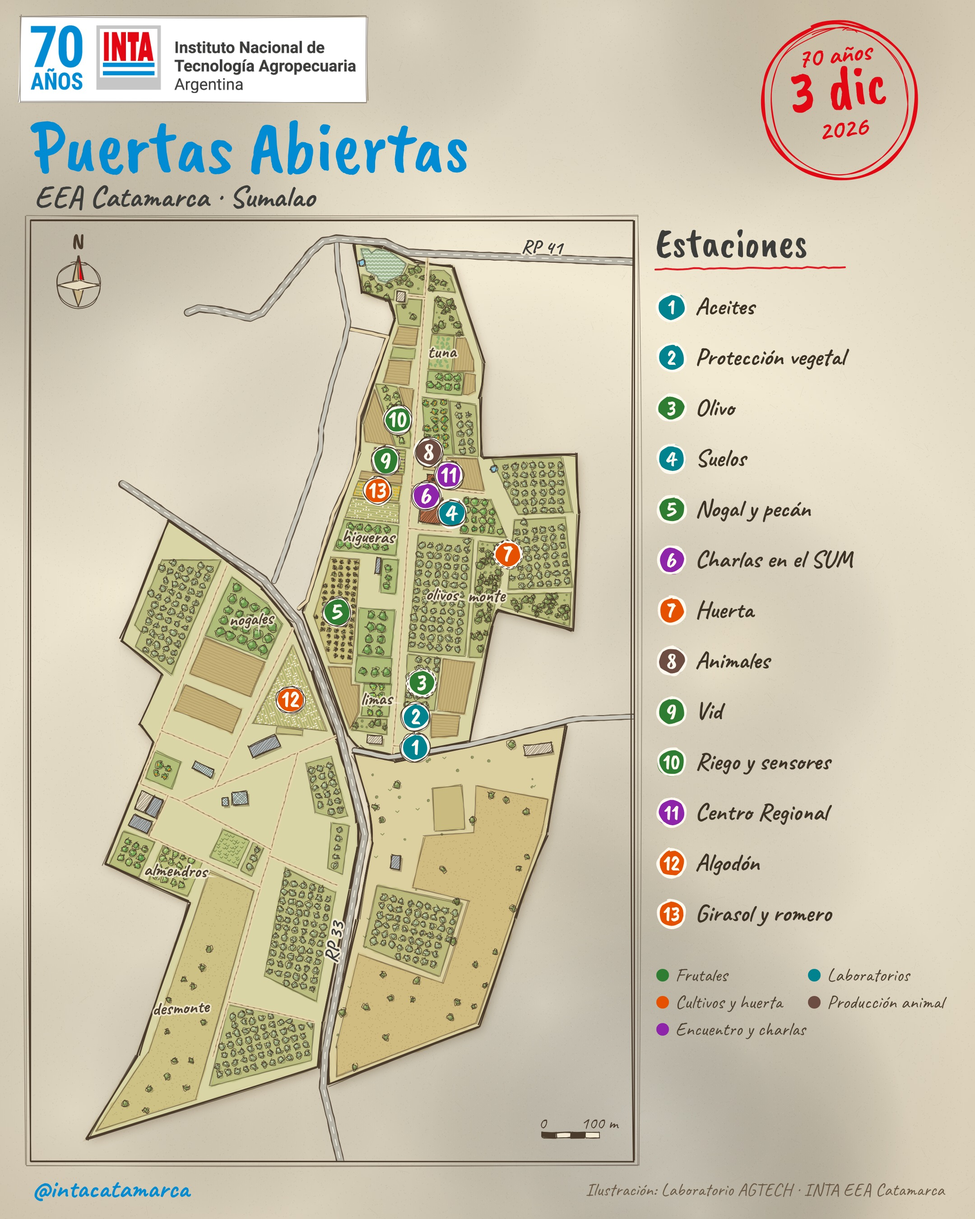
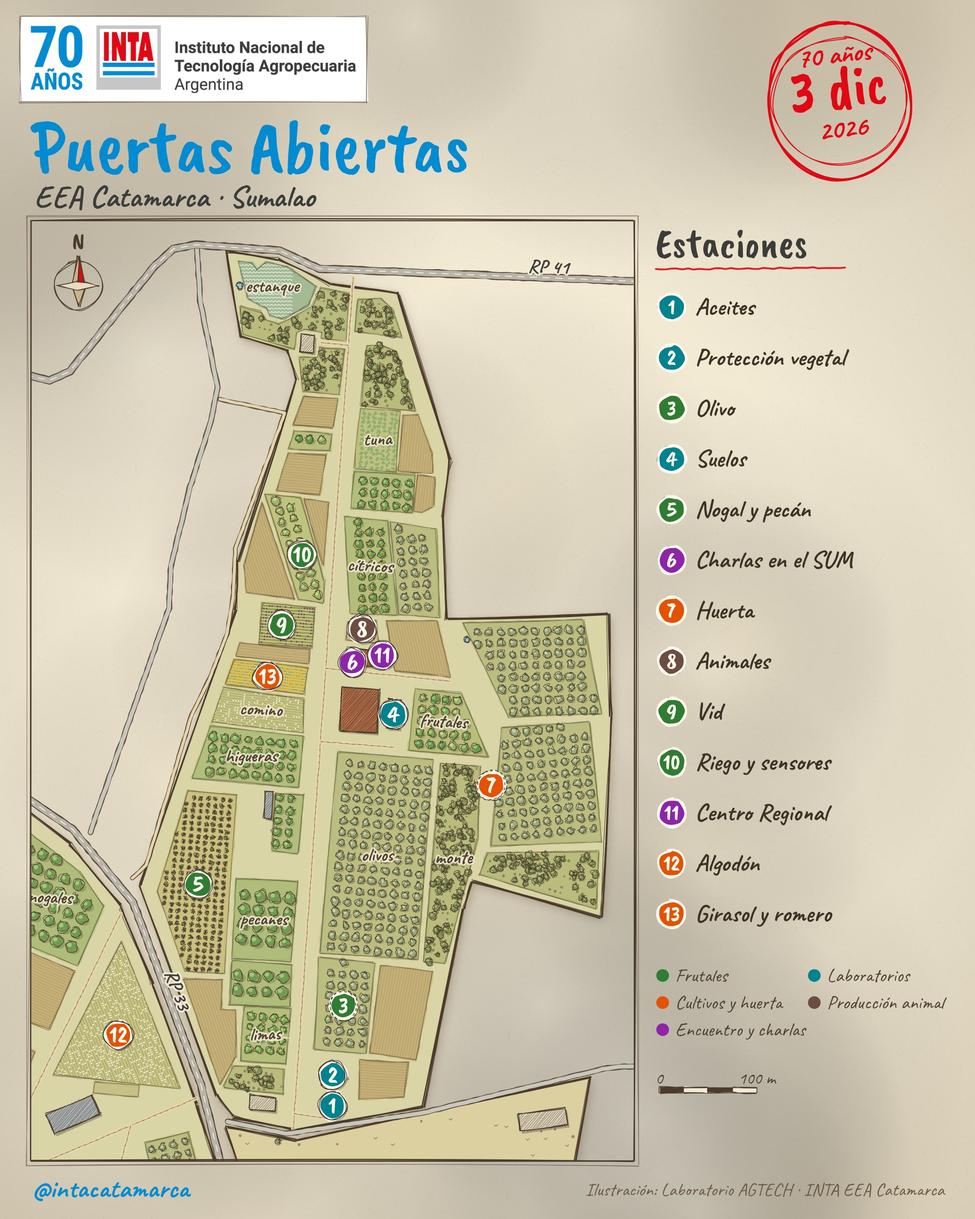
feat(mapa): lámina centrada en el sector 1 y la estación de algodón
Claude-Session: https://claude.ai/code/session_01Mgct47dxFApSdUnrjdfpuV

diff --git a/lamina/lamina.js b/lamina/lamina.js
@@ -41,7 +41,11 @@
 
   // ---------- Proyección ----------
   const sectores = GEO.filter((f) => f.properties.tipo === "predio");
-  const todos = sectores.flatMap((f) => f.geometry.coordinates[0]);
+  // Encuadre: el Sector 1 (donde se concentra la jornada) más el lote de algodón (estación 12) y todas las estaciones.
+  // Lo que queda fuera de ese recuadro se corta con el marco.
+  const foco = [...sectores.filter((f) => f.properties.nombre === "Sector 1"), ...GEO.filter((f) => f.properties.cultivo === "algodon"),
+    ...GEO.filter((f) => f.properties.tipo === "estacion")];
+  const todos = foco.flatMap((f) => f.geometry.type === "Point" ? [f.geometry.coordinates] : f.geometry.coordinates[0]);
   const lat0 = todos.reduce((t, p) => t + p[1], 0) / todos.length, k = 111320 * Math.cos(lat0 * Math.PI / 180), M = 110540;
   const lngs = todos.map((p) => p[0]), lats = todos.map((p) => p[1]);
   const xm = (lng) => (lng - Math.min(...lngs)) * k, ym = (lat) => (Math.max(...lats) - lat) * M;
@@ -49,9 +53,11 @@
   // caja del mapa: columna izquierda; a la derecha va la leyenda
   const caja = { x: 34, y: F.cab + 8, w: W - F.leyenda - 34 - 18, h: H - F.cab - F.pie - 16 };
   const esc = Math.min(caja.w / (anchoM * 1.08), caja.h / (altoM * 1.05)); // px por metro
-  { const h = Math.min(caja.h, altoM * esc * 1.07); caja.y += (caja.h - h) / 2; caja.h = h; } // el marco abraza al mapa
+  const libreAbajo = caja.h - Math.min(caja.h, altoM * esc * 1.07);
+  { const h = caja.h - libreAbajo; if (F.H < 1500) caja.y += libreAbajo / 2; caja.h = h; } // el marco abraza al mapa (en la historia, arriba)
   const ox = caja.x + (caja.w - anchoM * esc) / 2, oy = caja.y + (caja.h - altoM * esc) / 2;
   const P = ([lng, lat]) => [ox + xm(lng) * esc, oy + ym(lat) * esc];
+  const T = Math.max(1, Math.sqrt(esc / .67)); // con más acercamiento, árboles y surcos un poco más grandes
   const anillo = (f) => f.geometry.coordinates[0].slice(0, -1).map(P);
 
   // ---------- Geometría ----------
@@ -171,7 +177,7 @@
     if (ed) return; // los edificios van después, encima de todo
     acuarela(pts, LAVADO[cult] || "#e4e0bc", .5, 3, 1.6);
     const arboles = { olivo: [10, 10, 3.1], naranja: [9.5, 9.5, 3.2], lima: [9.5, 9.5, 3.1], nogal: [13, 13, 4.5], pecan: [13, 13, 4.5],
-      almendra: [10, 10, 3.3], higo: [10, 10, 3.4], frutal: [10, 10, 3.4] }[cult];
+      almendra: [10, 10, 3.3], higo: [10, 10, 3.4], frutal: [10, 10, 3.4] }[cult]?.map((v) => v * T);
     if (arboles) {
       const copa = COPA[cult], frutos = cult === "naranja" ? "#e8962e" : cult === "lima" ? "#c6d34a" : null;
       grilla(pts, arboles[0], arboles[1], arboles[2] * .9, (x, y) => arbol(x, y, arboles[2] * entre(.85, 1.1), cult === "frutal" ? [COPA.naranja, COPA.almendra, COPA.higo][Math.floor(azar() * 3)] : copa, { frutos }));
@@ -288,11 +294,11 @@
     rc.polygon([[x - r * .9, y], [x, y - r * .2], [x + r * .9, y], [x, y + r * .2]], { stroke: TINTA, strokeWidth: .7, fill: "#e8dcc0", fillStyle: "solid", roughness: .8, seed: sem() });
     c.font = "26px 'Caveat Brush'"; c.fillStyle = TINTA; c.textAlign = "center"; c.fillText("N", x, y - r * 1.25 - 14);
   })(...esquina(0, 70, 80), 26);
-  (function escala() {
-    const m = 100, l = m * esc, [ex, ey] = esquina(1, l + 40, 40), x = ex - l / 2, y = ey + 6;
+  function escala(x, y) {
+    const m = 100, l = m * esc;
     for (let i = 0; i < 4; i++) rc.rectangle(x + i * l / 4, y, l / 4, 6, { stroke: TINTA, strokeWidth: .8, roughness: .7, fill: i % 2 ? PAPEL : TINTA, fillStyle: "solid", seed: sem() });
     c.font = "19px Caveat"; c.fillStyle = TINTA; c.textAlign = "center"; c.fillText("0", x, y - 9); c.fillText(m + " m", x + l, y - 9);
-  })();
+  }
   c.restore(); // fin del recorte del mapa
   // marco del mapa: doble línea temblada
   rc.rectangle(caja.x, caja.y, caja.w, caja.h, { stroke: TINTA, strokeWidth: 1.4, roughness: 1, seed: sem() });
@@ -338,6 +344,15 @@
     c.fillStyle = z.color; c.beginPath(); c.arc(x + 8, y, 7, 0, 6.283); c.fill();
     c.font = "21px Caveat"; c.fillStyle = "#4d4030"; c.fillText(z.nombre, x + 22, y + 1); });
 
+  escala(lx0 + 4, yz + Math.ceil(Object.keys(C.zonas).length / colZ) * 30 + 34);
+  // historia: invitación en el espacio de abajo
+  if (F.H > 1500 && libreAbajo > 120) {
+    const y = caja.y + caja.h + (H - F.pie - caja.y - caja.h) / 2;
+    c.textAlign = "center"; c.textBaseline = "middle"; c.font = "60px 'Caveat Brush'"; c.fillStyle = GRIS;
+    c.fillText("Recorré las " + EST.length + " estaciones", W / 2, y - 26);
+    c.font = "700 38px Caveat"; c.fillStyle = MARCA; c.fillText("y completá tu pasaporte de sellos", W / 2, y + 30);
+    lineaMano([[W / 2 - 230, y + 62], [W / 2 + 230, y + 58]], ROJO, 2, .9, .8);
+  }
   // ---------- Pie ----------
   c.textBaseline = "alphabetic"; c.textAlign = "left"; c.font = "700 30px Caveat"; c.fillStyle = MARCA;
   c.fillText(C.instagram, 36, H - F.pie / 2 + 4);

diff --git a/lamina/README.md b/lamina/README.md
@@ -8,6 +8,9 @@ logo, Instagram). Si cambia el KML o una ficha, se vuelve a exportar y la lámin
   `lamina/salida/eea-catamarca-historia.jpg` (1080×1920, historia), ambas al doble de resolución (2160 px de ancho), en JPG para redes. El PNG sin pérdida queda al lado y no se sube.
 - Para verla en el navegador: `python -m http.server` en la raíz y abrir `http://localhost:8000/lamina/?formato=feed`.
 
+Encuadre: el Sector 1, donde se concentra la jornada, más el lote de algodón (estación 12) y todas las estaciones; lo demás
+queda cortado por el marco (`foco` en `lamina.js`). La historia suma abajo la invitación a recorrer las estaciones.
+
 Qué es real y qué es dibujo: lotes, edificios, caminos, rutas, techos y estaciones son los del KML. Las plantas son
 simbólicas (más espaciadas que en el campo para que se lean). La escala gráfica es la del dibujo.
 
